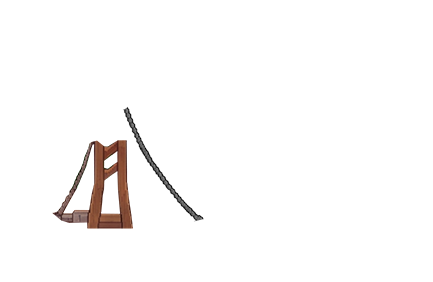
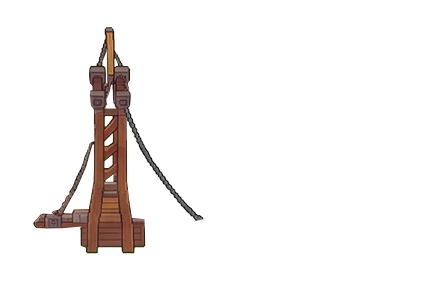
v8.20.4 : nouveaux visuels du pont-levis
Claude-Session: https://claude.ai/code/session_01SUBLMYy1BFvxzw1h17Vwcu

Changed region(s): [[0.06, 0.0851, 0.3603, 0.9078]]

diff --git a/index.html b/index.html
@@ -11,7 +11,7 @@
 <link rel="manifest" href="manifest.json">
 <link rel="icon" href="icon-192.png">
 <link rel="apple-touch-icon" href="icon-192.png">
-<link rel="stylesheet" href="assets/fonts/fonts.css?v=8.20.3">
+<link rel="stylesheet" href="assets/fonts/fonts.css?v=8.20.4">
 <style>
   html, body { margin: 0; height: 100%; background: #000; overflow: hidden; touch-action: none; -webkit-user-select: none; user-select: none; -webkit-touch-callout: none; }
   body { display: flex; align-items: center; justify-content: center; }
@@ -24,40 +24,40 @@
 <body>
 <canvas id="c"></canvas>
 <div id="rotate"><span>⟳</span>Tourne ton téléphone<br>en mode paysage</div>
-<script src="src/core.js?v=8.20.3"></script>
-<script src="src/bus.js?v=8.20.3"></script>
-<script src="src/input.js?v=8.20.3"></script>
-<script src="src/systems/save.js?v=8.20.3"></script>
-<script src="src/systems/heroes.js?v=8.20.3"></script>
-<script src="src/systems/inventory.js?v=8.20.3"></script>
-<script src="src/systems/wallet.js?v=8.20.3"></script>
-<script src="src/systems/shop.js?v=8.20.3"></script>
-<script src="src/systems/story.js?v=8.20.3"></script>
-<script src="src/systems/loot.js?v=8.20.3"></script>
-<script src="src/world.js?v=8.20.3"></script>
-<script src="src/entities.js?v=8.20.3"></script>
-<script src="src/objects.js?v=8.20.3"></script>
-<script src="src/actors.js?v=8.20.3"></script>
-<script src="src/interiors.js?v=8.20.3"></script>
-<script src="src/bois.js?v=8.20.3"></script>
-<script src="src/tools.js?v=8.20.3"></script>
-<script src="src/mines.js?v=8.20.3"></script>
-<script src="src/lac.js?v=8.20.3"></script>
-<script src="src/temple.js?v=8.20.3"></script>
-<script src="src/tower.js?v=8.20.3"></script>
-<script src="src/castle.js?v=8.20.3"></script>
-<script src="src/quests.js?v=8.20.3"></script>
-<script src="src/rpg.js?v=8.20.3"></script>
-<script src="src/dungeon.js?v=8.20.3"></script>
-<script src="src/cave.js?v=8.20.3"></script>
-<script src="src/maps.js?v=8.20.3"></script>
-<script src="src/overworld.js?v=8.20.3"></script>
-<script src="src/houses.js?v=8.20.3"></script>
-<script src="src/areas.js?v=8.20.3"></script>
-<script src="src/monde.js?v=8.20.3"></script>
-<script src="src/quetes.js?v=8.20.3"></script>
-<script src="src/cartes.js?v=8.20.3"></script>
-<script src="src/ui.js?v=8.20.3"></script>
-<script src="src/game.js?v=8.20.3"></script>
+<script src="src/core.js?v=8.20.4"></script>
+<script src="src/bus.js?v=8.20.4"></script>
+<script src="src/input.js?v=8.20.4"></script>
+<script src="src/systems/save.js?v=8.20.4"></script>
+<script src="src/systems/heroes.js?v=8.20.4"></script>
+<script src="src/systems/inventory.js?v=8.20.4"></script>
+<script src="src/systems/wallet.js?v=8.20.4"></script>
+<script src="src/systems/shop.js?v=8.20.4"></script>
+<script src="src/systems/story.js?v=8.20.4"></script>
+<script src="src/systems/loot.js?v=8.20.4"></script>
+<script src="src/world.js?v=8.20.4"></script>
+<script src="src/entities.js?v=8.20.4"></script>
+<script src="src/objects.js?v=8.20.4"></script>
+<script src="src/actors.js?v=8.20.4"></script>
+<script src="src/interiors.js?v=8.20.4"></script>
+<script src="src/bois.js?v=8.20.4"></script>
+<script src="src/tools.js?v=8.20.4"></script>
+<script src="src/mines.js?v=8.20.4"></script>
+<script src="src/lac.js?v=8.20.4"></script>
+<script src="src/temple.js?v=8.20.4"></script>
+<script src="src/tower.js?v=8.20.4"></script>
+<script src="src/castle.js?v=8.20.4"></script>
+<script src="src/quests.js?v=8.20.4"></script>
+<script src="src/rpg.js?v=8.20.4"></script>
+<script src="src/dungeon.js?v=8.20.4"></script>
+<script src="src/cave.js?v=8.20.4"></script>
+<script src="src/maps.js?v=8.20.4"></script>
+<script src="src/overworld.js?v=8.20.4"></script>
+<script src="src/houses.js?v=8.20.4"></script>
+<script src="src/areas.js?v=8.20.4"></script>
+<script src="src/monde.js?v=8.20.4"></script>
+<script src="src/quetes.js?v=8.20.4"></script>
+<script src="src/cartes.js?v=8.20.4"></script>
+<script src="src/ui.js?v=8.20.4"></script>
+<script src="src/game.js?v=8.20.4"></script>
 </body>
 </html>

diff --git a/sw.js b/sw.js
@@ -1,5 +1,5 @@
 // À chaque déploiement : changer VERSION ici, VERSION dans src/core.js et les ?v= dans index.html.
-const VERSION = 'v8.20.3';
+const VERSION = 'v8.20.4';
 const CACHE = 'escape-night2-' + VERSION;
 const PROPS = ['pine1', 'pine2', 'oak1', 'oak2', 'tent_r', 'tent_b', 'tent_y', 'campfire', 'campfire2', 'bush', 'log', 'rock', 'lamp', 'sign', 'fence', 'flowers', 'table'];
 const SCRIPTS = ['src/core.js', 'src/bus.js', 'src/input.js', 'src/systems/save.js', 'src/systems/heroes.js', 'src/systems/inventory.js', 'src/systems/wallet.js', 'src/systems/shop.js', 'src/systems/story.js', 'src/systems/loot.js', 'src/world.js', 'src/entities.js', 'src/objects.js', 'src/actors.js', 'src/interiors.js', 'src/bois.js', 'src/tools.js', 'src/mines.js', 'src/lac.js', 'src/temple.js', 'src/tower.js', 'src/castle.js', 'src/quests.js', 'src/rpg.js', 'src/dungeon.js', 'src/cave.js', 'src/maps.js', 'src/overworld.js', 'src/houses.js', 'src/areas.js', 'src/monde.js', 'src/quetes.js', 'src/cartes.js', 'src/ui.js', 'src/game.js'];

diff --git a/src/core.js b/src/core.js
@@ -1,6 +1,6 @@
 'use strict';
 // ---------- constantes ----------
-const VERSION = 'v8.20.3';
+const VERSION = 'v8.20.4';
 const W = 480, H = 270, SC = 2, TS = 16;
 const CHAR_SC = 0.75; // personnages (héros, PNJ, monstres) : 1 pixel d'image = 1,5 pixel d'écran (150 %)
 const cv = document.getElementById('c');

diff --git a/README.md b/README.md
@@ -27,6 +27,7 @@ PWA jouable en paysage sur mobile, ordinateur et manette.
 - **Donjon 6, le Château de Minuit** (défilé au sud-ouest du lac, éboulement à faire sauter) : 4 × 3 salles, horloges qui figent la salle, une aile par outil pour les cinq sceaux, le Chevalier Minuit (Papa ensorcelé), le Roi Minuit en 3 phases, le lever du soleil, le retour au camping et le générique.
 
 ## Version 8 : la grande mise à jour
+- **8.20.4** : nouveaux visuels du pont-levis de Bourg-Luciole (levé, tablier, premier plan).
 - **8.20.3** : à la nage, on passe sous le pont-levis ouvert (le tablier passe devant le héros, on ne grimpe pas dessus depuis l’eau).
 - **8.20.2** : le cadran animé de la tour-horloge se cale sur le cadran de la nouvelle tour de Bourg-Luciole.
 - **8.20.1** : Atelier Carte : lumières sur les objets (lanternes : point de lumière automatique, couleur au choix, jaune par défaut, scintillement aléatoire) ; le jeu les éclaire la nuit.
